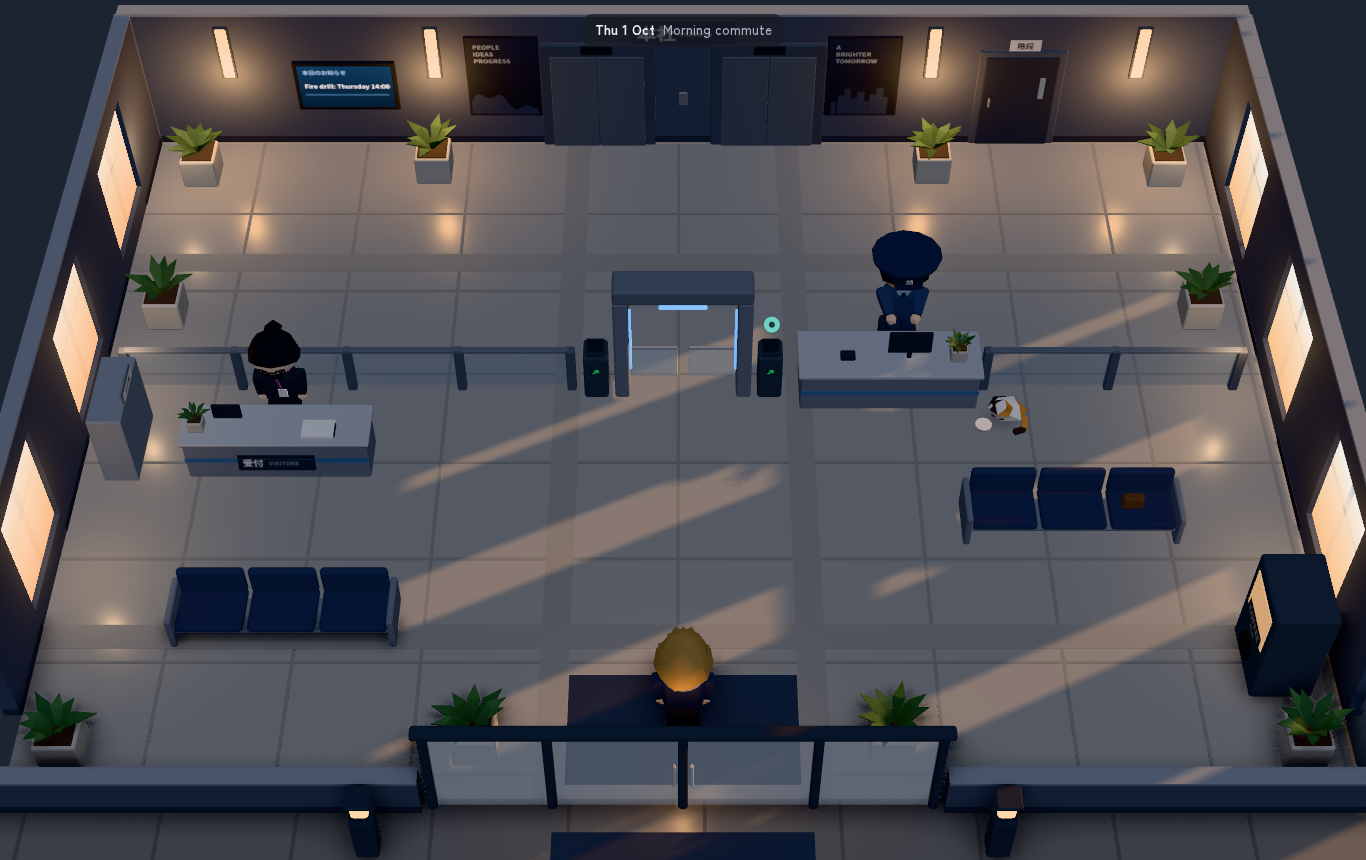
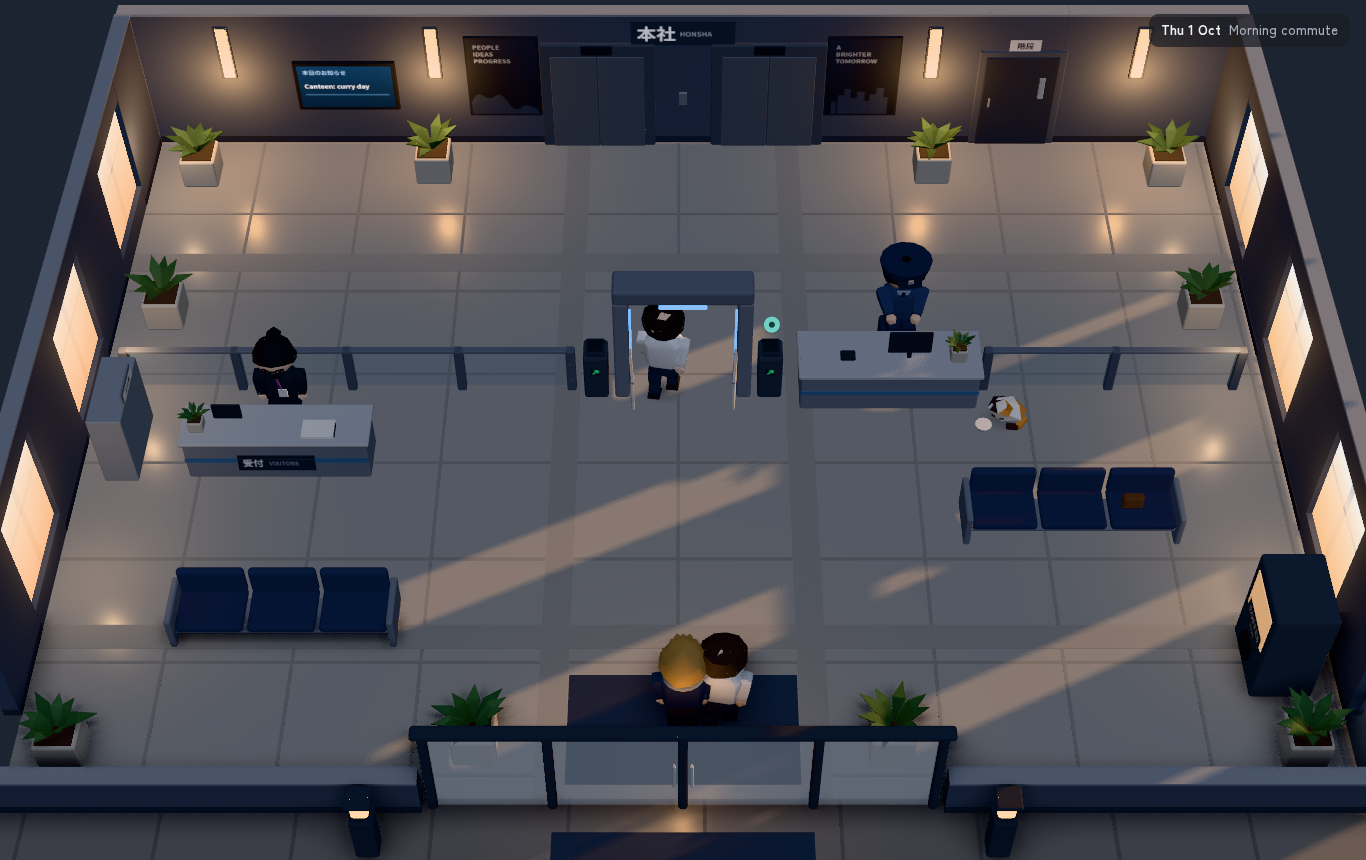
game3d: critic round 1 fixes (light, palette, cameras, heads, lobby life, no ceiling fixtures)
Claude-Session: https://claude.ai/code/session_01De42hGxD43zvtRt5qbbiWq

diff --git a/game3d/js/cast.js b/game3d/js/cast.js
@@ -18,7 +18,7 @@ function guardCap(r) {
   const pts = [];
   for (let i = 0; i < 14; i++) {
     const a = (i / 14) * Math.PI * 2;
-    for (const [y, k] of [[c + ry * 0.35, 1.0], [c + ry * 0.75, 1.18], [c + ry * 1.12, 1.26]]) pts.push(V((rx + 0.05) * k * Math.sin(a), y, (rz + 0.05) * k * Math.cos(a) + (y > c + ry ? 0.02 : 0)));
+    for (const [y, k] of [[c + ry * 0.35, 1.0], [c + ry * 0.72, 1.08], [c + ry * 1.02, 1.1]]) pts.push(V((rx + 0.05) * k * Math.sin(a), y, (rz + 0.05) * k * Math.cos(a) + (y > c + ry ? 0.02 : 0)));
   }
   r.headK.add(mesh(hull(pts, '#26304a', { grad: 0.2, name: 'cap' })));
   r.headK.add(mesh(hull([[-0.17, c + ry * 0.36, 0.2], [0.17, c + ry * 0.36, 0.2], [-0.14, c + ry * 0.3, 0.36], [0.14, c + ry * 0.3, 0.36], [-0.17, c + ry * 0.42, 0.2], [0.17, c + ry * 0.42, 0.2], [0, c + ry * 0.33, 0.38]], '#1b2233', { grad: 0.05, name: 'brim' })));
@@ -53,69 +53,71 @@ export function mug(color = '#e9e6df') {
   m.castShadow = true; return m;
 }
 
+// Jørgen: smaller heads (2.8 to 3 heads tall) for the people in the lobby and the office
+export const HK = 0.63;
 export const PEOPLE = {
   aoi: () => {
-    const r = chibi({ skin: SKINS[3], top: '#3a4256', sleeve: '#3a4256', bottom: '#2f3446', legs: '#2f3446', skirt: true, shin: '#e9c9b5', shirt: '#eef0f2', tie: '#9a4a55', hair: '#e89fae', blush: '#f2b4ab', hairOpts: { locks: 0.17, long: 0.26, front: 0.06, vfringe: 0.035, seed: 7 }, shoes: '#3b2e2c', sole: '#3b2e2c', torsoW: 0.28 });
+    const r = chibi({ headK: HK, skin: SKINS[3], top: '#3a4256', sleeve: '#3a4256', bottom: '#2f3446', legs: '#2f3446', skirt: true, shin: '#e9c9b5', shirt: '#eef0f2', tie: '#9a4a55', hair: '#e89fae', blush: '#f2b4ab', hairOpts: { locks: 0.17, long: 0.26, front: 0.06, vfringe: 0.035, seed: 7 }, shoes: '#3b2e2c', sole: '#3b2e2c', torsoW: 0.28 });
     lanyard(r, '#b0506a');
     return r;
   },
   guard: () => {
-    const r = chibi({ skin: SKINS[1], top: '#3d4a6a', sleeve: '#3d4a6a', bottom: '#28304a', shirt: '#a9b8cf', tie: '#1d2436', hair: '#2a2723', hairOpts: { front: 0.02, side: -0.1, seed: 5 }, shoes: '#1f2128', sole: '#1f2128' });
+    const r = chibi({ headK: HK, skin: SKINS[1], top: '#3d4a6a', sleeve: '#3d4a6a', bottom: '#28304a', shirt: '#a9b8cf', tie: '#1d2436', hair: '#2a2723', hairOpts: { front: 0.02, side: -0.1, seed: 5 }, shoes: '#1f2128', sole: '#1f2128' });
     guardCap(r);
     return r;
   },
   briefcaseMan: () => {
-    const r = chibi({ skin: SKINS[0], top: '#2f3548', sleeve: '#2f3548', bottom: '#2a2f40', shirt: '#e8ebef', tie: '#3f5a86', hair: '#1f2229', glasses: '#22252c', hairOpts: { messy: 0.07, front: 0.065, vfringe: 0.03, seed: 17, tufts: [[0.08, 0.27, 0.02], [-0.07, 0.27, -0.04]] }, shoes: '#222', sole: '#222' });
+    const r = chibi({ headK: HK, skin: SKINS[0], top: '#2f3548', sleeve: '#2f3548', bottom: '#2a2f40', shirt: '#e8ebef', tie: '#3f5a86', hair: '#1f2229', glasses: '#22252c', hairOpts: { messy: 0.07, front: 0.065, vfringe: 0.03, seed: 17, tufts: [[0.08, 0.27, 0.02], [-0.07, 0.27, -0.04]] }, shoes: '#222', sole: '#222' });
     const b = briefcase(); b.position.y = -0.25; r.arms[0].add(b);
     return r;
   },
   rei: () => {
     // Sales: long silver-grey hair in a high ponytail, white suit over a black shirt
-    const r = chibi({ skin: SKINS[0], top: '#e9e7e2', sleeve: '#e9e7e2', bottom: '#dcd9d3', legs: '#dcd9d3', shirt: '#1d1f24', hair: '#c3c7cf', blush: '#efb3a8', hairOpts: { front: 0.06, vfringe: 0.025, locks: 0.12, seed: 71 }, shoes: '#2a2626', sole: '#2a2626', torsoW: 0.28 });
+    const r = chibi({ headK: HK, skin: SKINS[0], top: '#e9e7e2', sleeve: '#e9e7e2', bottom: '#dcd9d3', legs: '#dcd9d3', shirt: '#1d1f24', hair: '#c3c7cf', blush: '#efb3a8', hairOpts: { front: 0.06, vfringe: 0.025, locks: 0.12, seed: 71 }, shoes: '#2a2626', sole: '#2a2626', torsoW: 0.28 });
     ponytail(r, '#c3c7cf');
     lanyard(r, '#c9a64a');
     return r;
   },
   kuro: () => {
     // the receptionist: black hair in a high bun, black-framed glasses, receptionist blazer
-    const r = chibi({ skin: SKINS[0], top: '#2b2e36', sleeve: '#2b2e36', bottom: '#2b2e36', skirt: true, shin: '#e3c3ae', shirt: '#1d1f24', hair: '#16171b', glasses: '#111216', blush: '#efb3a8', hairOpts: { bun: true, front: 0.06, vfringe: 0.02, seed: 61 }, shoes: '#1d1f24', sole: '#1d1f24', torsoW: 0.28 });
+    const r = chibi({ headK: HK, skin: SKINS[0], top: '#2b2e36', sleeve: '#2b2e36', bottom: '#2b2e36', skirt: true, shin: '#e3c3ae', shirt: '#1d1f24', hair: '#16171b', glasses: '#111216', blush: '#efb3a8', hairOpts: { bun: true, front: 0.06, vfringe: 0.02, seed: 61 }, shoes: '#1d1f24', sole: '#1d1f24', torsoW: 0.28 });
     lanyard(r, '#7a5a8c');
     return r;
   },
   kuroda: () => {
     // the sleeper from the train, awake now
-    const r = chibi({ skin: SKINS[1], top: '#2f3a55', bottom: '#2c354d', shirt: '#eef1f5', tie: '#8a3b46', hair: '#5a3e2f', hairOpts: { messy: 0.08, front: 0.065, vfringe: 0.03, seed: 4 }, shoes: '#2a2524', sole: '#2a2524' });
+    const r = chibi({ headK: HK, skin: SKINS[1], top: '#2f3a55', bottom: '#2c354d', shirt: '#eef1f5', tie: '#8a3b46', hair: '#5a3e2f', hairOpts: { messy: 0.08, front: 0.065, vfringe: 0.03, seed: 4 }, shoes: '#2a2524', sole: '#2a2524' });
     const b = briefcase(); b.position.y = -0.25; r.arms[0].add(b);
     return r;
   },
   emi: () => {
-    const r = chibi({ skin: SKINS[0], top: '#4a5068', sleeve: '#4a5068', bottom: '#343a4d', legs: '#343a4d', skirt: true, shin: '#e3c3ae', shirt: '#f2efe8', hair: '#9b4a33', blush: '#f0ada2', glasses: '#6d4f40', hairOpts: { locks: 0.2, front: 0.06, vfringe: 0.02, seed: 23, back: -0.26 }, shoes: '#2a2626', sole: '#2a2626', torsoW: 0.28 });
+    const r = chibi({ headK: HK, skin: SKINS[0], top: '#4a5068', sleeve: '#4a5068', bottom: '#343a4d', legs: '#343a4d', skirt: true, shin: '#e3c3ae', shirt: '#f2efe8', hair: '#9b4a33', blush: '#f0ada2', glasses: '#6d4f40', hairOpts: { locks: 0.2, front: 0.06, vfringe: 0.02, seed: 23, back: -0.26 }, shoes: '#2a2626', sole: '#2a2626', torsoW: 0.28 });
     lanyard(r, '#3e7fa6');
     return r;
   },
   kenji: () => {
-    const r = chibi({ skin: SKINS[2], top: '#eef0f3', sleeve: '#eef0f3', bottom: '#30364a', shirt: null, hair: '#231f1f', hairOpts: { messy: 0.11, front: 0.06, vfringe: 0.03, seed: 41, tufts: [[0.09, 0.27, 0.0], [-0.08, 0.27, -0.03], [0.0, 0.29, -0.09]] }, shoes: '#2a2524', sole: '#2a2524' });
+    const r = chibi({ headK: HK, skin: SKINS[2], top: '#eef0f3', sleeve: '#eef0f3', bottom: '#30364a', shirt: null, hair: '#231f1f', hairOpts: { messy: 0.11, front: 0.06, vfringe: 0.03, seed: 41, tufts: [[0.09, 0.27, 0.0], [-0.08, 0.27, -0.03], [0.0, 0.29, -0.09]] }, shoes: '#2a2524', sole: '#2a2524' });
     r.torso.add(mesh(hull([[-0.015, TORSO_H - 0.005, 0.088], [0.015, TORSO_H - 0.005, 0.088], [0.02, TORSO_H - 0.11, 0.088], [0, TORSO_H - 0.13, 0.09], [-0.02, TORSO_H - 0.11, 0.088], [0, TORSO_H - 0.06, 0.1]], '#35507c', { grad: 0, name: 'tie' })));
     lanyard(r);
     return r;
   },
   mori: () => {
-    const r = chibi({ skin: SKINS[1], top: '#2b3040', sleeve: '#2b3040', bottom: '#262b39', shirt: '#e8ebef', tie: '#7a2f3a', hair: '#a2a6ad', glasses: '#2a2c31', hairOpts: { front: 0.075, side: -0.04, seed: 3 }, shoes: '#1d1d1f', sole: '#1d1d1f' });
+    const r = chibi({ headK: HK, skin: SKINS[1], top: '#2b3040', sleeve: '#2b3040', bottom: '#262b39', shirt: '#e8ebef', tie: '#7a2f3a', hair: '#a2a6ad', glasses: '#2a2c31', hairOpts: { front: 0.075, side: -0.04, seed: 3 }, shoes: '#1d1d1f', sole: '#1d1d1f' });
     return r;
   },
   yui: () => {
-    const r = chibi({ skin: SKINS[3], top: '#8e9bb0', sleeve: '#8e9bb0', bottom: '#3a4052', shirt: '#f3f1ec', hair: '#c79b6d', blush: '#f2b4ab', hairOpts: { front: 0.05, vfringe: 0.03, bun: true, locks: 0.1, seed: 13 }, shoes: '#e8e6e0', sole: '#bfbcb4', torsoW: 0.28 });
+    const r = chibi({ headK: HK, skin: SKINS[3], top: '#8e9bb0', sleeve: '#8e9bb0', bottom: '#3a4052', shirt: '#f3f1ec', hair: '#c79b6d', blush: '#f2b4ab', hairOpts: { front: 0.05, vfringe: 0.03, bun: true, locks: 0.1, seed: 13 }, shoes: '#e8e6e0', sole: '#bfbcb4', torsoW: 0.28 });
     lanyard(r, '#6c8a5c');
     return r;
   },
   sota: () => {
-    const r = chibi({ skin: SKINS[0], top: '#5d6b62', sleeve: '#5d6b62', bottom: '#3b3f4a', shirt: '#eef0f3', hair: '#4a3a33', glasses: '#2b2f3a', hairOpts: { front: 0.06, messy: 0.05, seed: 29 }, shoes: '#3b2e2c', sole: '#3b2e2c' });
+    const r = chibi({ headK: HK, skin: SKINS[0], top: '#5d6b62', sleeve: '#5d6b62', bottom: '#3b3f4a', shirt: '#eef0f3', hair: '#4a3a33', glasses: '#2b2f3a', hairOpts: { front: 0.06, messy: 0.05, seed: 29 }, shoes: '#3b2e2c', sole: '#3b2e2c' });
     lanyard(r);
     return r;
   },
   worker: (i = 0) => {
     const hairs = ['#2c2622', '#3a2f2a', '#1f2229'], tops = ['#eef0f3', '#e6e9ee', '#dfe3ea'];
-    const r = chibi({ skin: SKINS[i % 4], top: tops[i % 3], sleeve: tops[i % 3], bottom: '#2e3446', shirt: null, hair: hairs[i % 3], hairOpts: { messy: 0.1, front: 0.06, seed: 50 + i }, shoes: '#222', sole: '#222' });
+    const r = chibi({ headK: HK, skin: SKINS[i % 4], top: tops[i % 3], sleeve: tops[i % 3], bottom: '#2e3446', shirt: null, hair: hairs[i % 3], hairOpts: { messy: 0.1, front: 0.06, seed: 50 + i }, shoes: '#222', sole: '#222' });
     return r;
   },
 };

diff --git a/game3d/js/scenes/office.js b/game3d/js/scenes/office.js
@@ -104,7 +104,7 @@ function toilet() {
 }
 function mirror() { const m = new THREE.Mesh(new THREE.PlaneGeometry(0.42, 0.5), mat('#b7c8d4', { roughness: 0.15, metalness: 0.2 })); m.receiveShadow = true; return m; }
 function ceilingLamp(w = 0.9) {
-  const g = new THREE.Group();
+  const g = new THREE.Group(); g.visible = false; // Jørgen: don't show the fixtures, keep their light
   g.add(rbox(w + 0.06, 0.07, 0.07, PAL.trim, { r: 0.02, cast: false }));
   g.add(rbox(w, 0.04, 0.06, null, { y: 0.015, z: 0.012, r: 0.015, m: emissive('#fff3dc', '#ffe6b8', 2.2), cast: false }));
   return g;
@@ -312,6 +312,12 @@ export function buildOffice() {
   for (const x of [-5.6, -2.6, 0.9, 4.0]) { const l = ceilingLamp(0.7); l.position.set(x, 1.3, CN + T / 2 + 0.02); root.add(l); }
   const trolley = new THREE.Group(); trolley.add(rbox(0.5, 0.04, 0.34, '#4c6696', { y: 0.08, r: 0.01 }), rbox(0.04, 0.6, 0.04, '#4c6696', { x: -0.23, y: 0.08, z: -0.13, r: 0.01 }), rbox(0.04, 0.6, 0.04, '#4c6696', { x: -0.23, y: 0.08, z: 0.13, r: 0.01 }));
   trolley.position.set(6.3, 0, 2.05); root.add(trolley);
+  // corridor dressing: plants at the ends, a folded 清掃中 sign, bins, a pipe chair stack
+  { const p = plant({ size: 0.95, seed: 14 }); p.position.set(-4.3, 0, 2.05); root.add(p); }
+  { const p = plant({ size: 0.95, seed: 15 }); p.position.set(3.2, 0, 2.05); root.add(p); }
+  { const s = new THREE.Group(); s.add(rbox(0.3, 0.5, 0.04, '#e0b83a', { r: 0.02 })); s.rotation.x = -0.25; s.position.set(1.6, 0, 1.95); root.add(s); }
+  for (const [x, c] of [[0.7, '#4f6f9a'], [0.98, '#6a8f5c']]) root.add(rbox(0.22, 0.34, 0.22, c, { x, z: 2.1, r: 0.03 }));
+  for (let i = 0; i < 3; i++) root.add(rbox(0.4, 0.05, 0.36, '#6d747e', { x: -2.4, y: 0.02 + i * 0.05, z: 2.05, r: 0.01 }));
 
   // ---- lift lobby ----
   const liftDoor = new THREE.Group();
@@ -404,6 +410,8 @@ export function buildOffice() {
   work.position.set(-4.4, 0, 4.7); root.add(work);
   for (const [x, z, s] of [[-2.7, 5.9, 0.4], [-3.15, 5.95, 0.34], [-6.5, 5.9, 0.36]]) root.add(rbox(s, s * 0.8, s, PAL.box, { x, z, r: 0.02 }));
   root.add(rbox(0.26, 0.32, 0.26, '#b8453e', { x: -2.55, z: 4.6, r: 0.03 }), rbox(0.26, 0.3, 0.26, '#4f8a55', { x: -2.55, z: 5.0, r: 0.03 }));
+  { const sd = new THREE.Group(); sd.add(rbox(0.7, 0.04, 0.45, '#d5d6d3', { y: 0.4, r: 0.01 }), rbox(0.05, 0.4, 0.4, PAL.deskLeg, { x: -0.3, r: 0.01 }), rbox(0.05, 0.4, 0.4, PAL.deskLeg, { x: 0.3, r: 0.01 }), rbox(0.12, 0.05, 0.05, '#3a3f48', { x: -0.15, y: 0.44, r: 0.01 }), rbox(0.2, 0.05, 0.28, PAL.paper, { x: 0.15, y: 0.44, r: 0.004 })); sd.position.set(-6.2, 0, 5.9); root.add(sd); }
+  for (const [x, z] of [[-3.5, 3.1], [-3.8, 3.1], [-3.65, 3.3]]) root.add(rbox(0.26, 0.2, 0.34, '#e8e4da', { x, y: 0, z, r: 0.01 }));
 
   // ---- kitchenette (給湯室) ----
   const ct = counter(1.5); ct.position.set(0.95, 0, CS + T / 2 + 0.3); root.add(ct);
@@ -416,6 +424,8 @@ export function buildOffice() {
   const fr = fridge(); fr.position.set(-1.8, 0, CS + T / 2 + 0.32); root.add(fr);
   const t2 = table2(); t2.position.set(-0.8, 0, 4.6); root.add(t2);
   root.add(rbox(0.22, 0.3, 0.22, '#5c6b86', { x: -1.9, z: 6.0, r: 0.02 }));
+  { const wc = waterCooler(); wc.position.set(-1.9, 0, 3.6); root.add(wc); }
+  root.add(rbox(0.9, 0.04, 0.22, '#8a909a', { x: 0.2, y: 0.95, z: 6.2, r: 0.01 }), rbox(0.9, 0.04, 0.22, '#8a909a', { x: 0.2, y: 0.7, z: 6.2, r: 0.01 }));
   { const p = plant({ size: 0.9, seed: 8 }); p.position.set(1.4, 0, 6.0); root.add(p); }
 
   // ---- toilets: men's and women's ----
@@ -468,6 +478,8 @@ export function buildOffice() {
   B(-3.35, -2.55, CS, CS + 0.75); B(-5.8, -5.0, CS, CS + 0.58); B(X0, X0 + 0.5, 3.1, 5.3); B(-5.2, -3.6, 4.25, 5.15); B(-3.3, -2.35, 5.6, Z1); B(-6.75, -6.25, 5.65, Z1); B(-2.75, -2.35, 4.4, 5.2);
   B(0.15, 1.75, CS, CS + 0.62); B(1.15, 1.8, 3.6, 5.0); B(-2.15, -1.45, CS, CS + 0.62); B(-1.25, -0.35, 4.25, 5.3); B(-2.05, -1.75, 5.85, Z1); B(1.2, 1.6, 5.8, Z1);
   for (const x0 of [1.8, 4.4]) { B(x0 + 0.1, x0 + 2.55, 5.3, Z1); B(x0 + 2.15, x0 + 2.55, 3.15, 3.65); B(x0 + 2.2, x0 + 2.5, 3.85, 4.15); B(x0 + 0.25, x0 + 1.2, CS, CS + 0.32); }
+  B(-4.55, -4.05, 1.85, CS); B(2.95, 3.45, 1.85, CS); B(1.45, 1.75, 1.85, 2.1); B(0.55, 1.12, 1.95, CS); B(-2.65, -2.15, 1.85, CS);
+  B(-6.6, -5.8, 5.6, Z1); B(-3.95, -3.35, 2.9, 3.5); B(-2.1, -1.7, 3.4, 3.8);
   nav.blockTagged('emi', -5.5, -5.1, -1.55, -1.15);
 
   for (const r of [nao, hiro, yui, sota]) r.root.visible = false;

diff --git a/game3d/js/places/lobby.js b/game3d/js/places/lobby.js
@@ -48,18 +48,18 @@ export async function lobbyPlace(game) {
 
   // ---- commuters: walk in, tap a reader, pass the arch, take a lift ----
   const commuters = [];
-  [0, 1, 2, 0].forEach((k, i) => {
+  [0, 1, 2, 0, 1, 2, 0].forEach((k, i) => {
     const r = PEOPLE.worker(k); r.root.scale.multiplyScalar(K);
     if (i === 2) { const box = rbox(0.2, 0.12, 0.2, '#f4efe6', { y: -0.3, z: 0.05, r: 0.01 }); box.add(rbox(0.21, 0.02, 0.05, '#d9534f', { y: 0.11, r: 0.004 })); r.arms[1].add(box); }
     w.root.add(r.root); r.root.visible = false;
     const b = blob(0.5, 0.35); w.root.add(b); b.visible = false;
-    commuters.push({ r, b, t: -2 - i * 4.5, side: i % 2 ? 1 : -1, stage: 'wait', ph: 0 });
+    commuters.push({ r, b, t: 1 - i * 2.6, side: i % 2 ? 1 : -1, stage: 'wait', ph: 0 });
   });
   function stepCommuter(c, dt) {
     const r = c.r, p = r.root.position;
     c.t += dt;
     if (c.stage === 'wait') {
-      if (c.t > 0 && st.rush && !st.jam && !game.busyTrip) { c.stage = 'in'; r.root.visible = true; c.b.visible = true; p.set(c.side * 0.45 + (Math.random() - 0.5) * 0.3, 0, Z + 1.6); c.path = [[c.side * 0.35, Z - 0.8], [c.side * 0.93, BZ + 0.5]]; }
+      if (c.t > 0 && st.rush && !st.jam && !game.busyTrip) { c.stage = 'in'; r.root.visible = true; c.b.visible = true; p.set(c.side * (1.0 + Math.random() * 0.4), 0, Z + 1.6); c.path = [[c.side * (1.0 + Math.random() * 0.3), Z - 0.9], [c.side * 0.93, BZ + 0.55]]; }
       return;
     }
     const moveTo = (tx, tz, sp = 1.25) => {
@@ -82,9 +82,16 @@ export async function lobbyPlace(game) {
       if (moveTo(...c.path[0])) { c.path.shift(); if (!c.path.length) { c.stage = 'enter'; c.t = 0; } }
       return;
     }
-    if (c.stage === 'enter') { if (moveTo(c.side * 1.0, -Z - 0.2, 1.0)) { r.root.visible = false; c.b.visible = false; w.lifts[c.side > 0 ? 1 : 0].want = 0; c.stage = 'wait'; c.t = -8 - Math.random() * 6; } }
+    if (c.stage === 'enter') { if (moveTo(c.side * 1.0, -Z - 0.2, 1.0)) { r.root.visible = false; c.b.visible = false; w.lifts[c.side > 0 ? 1 : 0].want = 0; c.stage = 'wait'; c.t = -4 - Math.random() * 5; } }
   }
 
+  // background people who aren't going anywhere yet
+  const extras = [];
+  for (const [k, x, z, ry] of [[1, -3.5, -2.9, 0.9], [2, -2.95, -2.6, -2.2], [0, 5.0, 3.0, Math.PI / 2]]) {
+    const r = PEOPLE.worker(k); r.root.scale.multiplyScalar(K); r.root.position.set(x, 0, z); r.root.rotation.y = ry; w.root.add(r.root);
+    const b = blob(0.5, 0.35); b.position.set(x, 0.004, z); w.root.add(b); extras.push(r);
+    w.nav.block(x - 0.2, x + 0.2, z - 0.2, z + 0.2);
+  }
   // ---- gate ----
   function readerFlash(i, state, quiet) {
     w.readers[i].userData.set(state === 'green' ? 'ok' : state === 'red' ? 'no' : 'idle');
@@ -181,6 +188,7 @@ export async function lobbyPlace(game) {
       w.update(t);
       stepPeople([w.aoi, w.man, w.guard, rei], dt);
       for (const c of commuters) stepCommuter(c, dt);
+      for (const [i, r] of extras.entries()) { idle(r, t + i); r.head.rotation.y = Math.sin(t * 0.7 + i * 2) * 0.35; if (i < 2) r.arms[i].rotation.x = -0.3 - Math.max(0, Math.sin(t * 2 + i)) * 0.4; }
       if (openTimer > 0) { openTimer -= dt; if (openTimer <= 0 && !st.gateOpen) st.flapWant = 0; }
       const jit = st.jam ? Math.abs(Math.sin(t * 38)) * 0.07 * (Math.sin(t * 2.5) > 0.3 ? 1 : 0) : 0;
       st.flap += (st.flapWant - st.flap) * Math.min(1, dt * (st.slam ? 10 : 5));

diff --git a/game3d/js/places/office.js b/game3d/js/places/office.js
@@ -21,13 +21,13 @@ export async function officePlace(game) {
   const rei = PEOPLE.rei(); rei.root.scale.multiplyScalar(K); rei.root.visible = false; rei.root.position.set(-5.45, 0, -3.25); w.root.add(rei.root);
   const reiBlob = blob(0.55, 0.38); reiBlob.visible = false; w.root.add(reiBlob); rei.blob = reiBlob;
   const people = { emi: w.emi, kenji: w.kenji, mori: w.mori, aoi, rei, tama: { root: w.tama, head: w.tama.userData.head } };
-  const blobs = { emi: w.emiBlob, aoi: aoiBlob, rei: reiBlob, mori: moriBlob };
+  const blobs = { emi: w.emiBlob, aoi: aoiBlob, rei: reiBlob };
   // a steam puff for the kettle and a blinking light on the racks
   const steam = new THREE.Mesh(new THREE.SphereGeometry(0.06, 8, 6), new THREE.MeshBasicMaterial({ color: '#ffffff', transparent: true, opacity: 0 })); steam.position.set(1.45, 0.75, CS + 0.36); w.root.add(steam);
   const alarm = new THREE.Mesh(new THREE.SphereGeometry(0.05, 10, 8), new THREE.MeshBasicMaterial({ color: '#ff5a4a' })); alarm.position.set(5.2, 1.4, -3.3); alarm.visible = false; w.root.add(alarm);
   const dS1 = w.dS(1), dS0 = w.dS(0);
   { const r = w.mori; r.seated = false; r.root.position.set(-5.2, 0, -1.9); r.root.rotation.y = Math.PI; for (const l of r.legs) l.rotation.set(0, 0, 0); for (const k of r.knees) k.rotation.set(0, 0, 0); for (const a of r.arms) a.rotation.set(0, 0, 0); }
-  const moriBlob = blob(0.55, 0.38); moriBlob.position.set(-5.2, 0.004, -1.9); w.root.add(moriBlob); w.mori.blob = moriBlob;
+  const moriBlob = blob(0.55, 0.38); moriBlob.position.set(-5.2, 0.004, -1.9); w.root.add(moriBlob); w.mori.blob = moriBlob; blobs.mori = moriBlob;
 
   const spots = {
     lift_out: [-5.45, -2.4], lobby: [-5.6, -1.0], office_door: [-0.25, 0.9], my_seat: [dS1.seat[0], dS1.seat[1] + 0.45], emi_seat: [dS0.seat[0], dS0.seat[1]],
@@ -119,11 +119,11 @@ export async function officePlace(game) {
 
   const P = {
     scene: w.scene, camera: cam.camera, cam, space: w.root, nav: w.nav, sun: w.sun, charScale: K,
-    start: [-5.45, -3.05], startFacing: 0, things, people, spots, zones, seats,
+    start: [-5.45, -3.05], startFacing: 0, things, people, spots, zones, seats, defaultPeriod: 'morning',
     fit(aspect) {
       const pts = [];
       for (const x of [w.X0 - 0.2, w.X1 + 0.2]) for (const z of [w.Z0 - 0.2, w.Z1 + 0.2]) for (const y of [0, 1.45]) pts.push(new THREE.Vector3(x, y, z));
-      if (aspect >= 1) cam.fit(aspect, [new THREE.Vector3(-4.9, 0, 0), new THREE.Vector3(4.9, 0, 0), new THREE.Vector3(0, 0, -4.2), new THREE.Vector3(0, 1.4, -4.4), new THREE.Vector3(0, 0, 4.0)], new THREE.Vector3(0, 0, 0), { follow: true, clamp: [-2.2, 2.2, -2.0, 2.3] });
+      if (aspect >= 1) cam.fit(aspect, [new THREE.Vector3(-7.1, 0, 0), new THREE.Vector3(7.1, 0, 0), new THREE.Vector3(0, 1.45, w.Z0), new THREE.Vector3(0, 0, w.Z1 + 0.1)], new THREE.Vector3(0, 0, 0), { limY: 0.97 });
       else cam.fit(aspect, [new THREE.Vector3(-2.5, 0, 0), new THREE.Vector3(2.5, 0, 0), new THREE.Vector3(0, 0, -2.7), new THREE.Vector3(0, 1.3, 2.5)], new THREE.Vector3(0, 0, 0), { follow: true, clamp: [w.X0 + 2.5, w.X1 - 2.5, w.Z0 + 2.0, w.Z1 - 1.5] });
     },
     pick(rc) { const p = new THREE.Vector3(); return rc.ray.intersectPlane(floor, p) ? p : null; },

diff --git a/game3d/js/main.js b/game3d/js/main.js
@@ -14,7 +14,7 @@ import { lobbyPlace } from './places/lobby.js';
 import { officePlace } from './places/office.js';
 import { showEnd } from './end.js';
 import * as trips from './trips.js';
-import { sim, ITEMS, setPeriod, applySchedule, stepAmbient, bond, meet, noteTeacher, absorb, buy, take, peopleHTML, save, loadSave, restore, clearSave } from './sim.js';
+import { PERIODS as PERIOD_ORDER, sim, ITEMS, setPeriod, applySchedule, stepAmbient, bond, meet, noteTeacher, absorb, buy, take, peopleHTML, save, loadSave, restore, clearSave } from './sim.js';
 
 const CAP = Q.has('cap');
 const canvas = document.getElementById('c');
@@ -297,6 +297,7 @@ async function enter(name) {
   resize();
   place.cam?.snap?.(game.player.root.position);
   absorb(story);
+  if (place.defaultPeriod && PERIOD_ORDER.indexOf(sim.period) < PERIOD_ORDER.indexOf(place.defaultPeriod)) sim.period = place.defaultPeriod;
   applySchedule(game, { instant: true });
   ui.clock(sim.date, { commute: 'Morning commute', morning: 'Morning at work', lunch: 'Lunch', afternoon: 'Afternoon', evening: 'After work' }[sim.period]);
   buildMarkers(place);
@@ -413,6 +414,8 @@ async function boot() {
     if (Q.has('face')) { game.walker.facing = +Q.get('face'); game.player.root.rotation.y = +Q.get('face'); }
     game.place.cam?.snap?.(game.player.root.position);
     if (Q.has('st')) await game.place.capState?.(Q.get('st'));
+    // ?advance=N runs the world for N/30 s so moving things (commuters) are in the shot
+    for (let i = 0; i < +(Q.get('advance') || 0); i++) { game.place.update(1 / 30, game.t += 1 / 30); }
     for (let i = 0; i < 30; i++) step(1 / 60);
     return;
   }

diff --git a/game3d/js/avatar.js b/game3d/js/avatar.js
@@ -62,7 +62,7 @@ function lanyard(rig) {
 
 export function buildEric() {
   const rig = chibi({
-    skin: ERIC.skin, top: ERIC.blazer, sleeve: ERIC.blazer, bottom: ERIC.trousers, shirt: ERIC.hoodie, tie: null,
+    headK: 0.63, skin: ERIC.skin, top: ERIC.blazer, sleeve: ERIC.blazer, bottom: ERIC.trousers, shirt: ERIC.hoodie, tie: null,
     hair: ERIC.hair, glasses: '#2a2c31', eyes: 'open',
     hairOpts: { messy: 0.16, front: 0.1, vfringe: 0.0, side: -0.02, seed: 88, tufts: [[0.08, 0.3, 0.1], [-0.09, 0.29, 0.06], [0.02, 0.32, -0.02], [0.13, 0.26, 0.12], [-0.13, 0.25, 0.1], [0.0, 0.3, 0.14]] },
     shoes: ERIC.shoes, sole: '#2c2622', torsoW: 0.32,

diff --git a/game3d/js/engine.js b/game3d/js/engine.js
@@ -256,7 +256,7 @@ export class Markers {
       m.el.classList.toggle('goal', isGoal);
       // only nearby things and the current goal show a marker, so the room isn't covered in dots
       const s = m.spot ? m.spot() : null;
-      const far = !isGoal && s && playerPos && Math.hypot(playerPos.x - s[0], playerPos.z - s[1]) > (/person/.test(m.kind || '') && !/small/.test(m.kind || '') ? 3.2 : 1.9);
+      const far = !isGoal && s && playerPos && Math.hypot(playerPos.x - s[0], playerPos.z - s[1]) > (/person/.test(m.kind || '') && !/small/.test(m.kind || '') ? 2.1 : 1.4);
       m.el.classList.toggle('far', !!far);
       void on;
     }

diff --git a/game3d/js/places/train.js b/game3d/js/places/train.js
@@ -168,6 +168,8 @@ export async function trainPlace(game) {
   // doors: the near-side sliding leaves in the shell
   let doorLeaves = [];
   function findDoors() {
+    // Jørgen: no visible light fixtures in the car; the point lights stay
+    const lm = carMat('lamp', COL.lamp); car.root.traverse((o) => { if (o.isMesh && o.material === lm) o.visible = false; });
     doorLeaves = [];
     const dm = carMat('door', COL.door);
     car.root.traverse((o) => { if (o.isMesh && o.material === dm && Math.abs(o.position.z - (LZ + 0.03)) < 0.002) doorLeaves.push({ m: o, x0: o.position.x }); });

diff --git a/game3d/REVIEW.md b/game3d/REVIEW.md
@@ -1,0 +1,19 @@
+# game3d: review log
+
+Each round, a fresh critic agent sees only the reference image(s) and the screenshots, and scores the place 0 to 10 (pass mark 8, scale from island/VISUAL_QA.md). A separate cold-player agent plays the whole day in a headless browser.
+
+References: train `ref/1-train-arrival.png`, gate `ref/2-security-gate-muted.png` (the palette for all three places), office `ref/3-office.png` for the look only (the floor plan follows the B2 plan on Jørgen's instruction).
+
+## Visual critics
+
+| Round | Train | Gate | Office | Shots |
+|---|---|---|---|---|
+| 1 | 5 | 5 | 4 | shots/round-1 |
+
+### Round 1 (2026-09-28)
+
+- Train 5: camera too top-down for the critic (kept: Jørgen asked for "a little more top down" in side/train), warm tan platform, saturated tactile strips, markers covering faces, a black silhouette by the door.
+- Gate 5: camera too high and far, flat even light, streaks on one side only, tiny wall lamps with no pools, glass barrier invisible, flat orange windows, big guard cap.
+- Office 4: flat bright light, beige floor and pale walls, no light pools or gloss, empty copy room, kitchenette and corridor, cloth-covered monitors reading as pillows, rack backs as black boxes.
+
+Fixed after round 1: muted slate walls with skirting, cooler floors with gloss, warm lamp pools (point lights at every wall lamp and office fixture), gradient windows, visible tinted glass, lower cameras (50 to 51 degrees), people and Eric with smaller heads (2.8 to 3 heads), markers above heads and shown only near the player, cool grey platform and ochre tactile strips, draped monitor covers, racks facing the camera, more dressing in the corridor and bottom rooms, commuters and background people in the lobby, visible ceiling fixtures removed (Jørgen), the office period set to morning on arrival.
